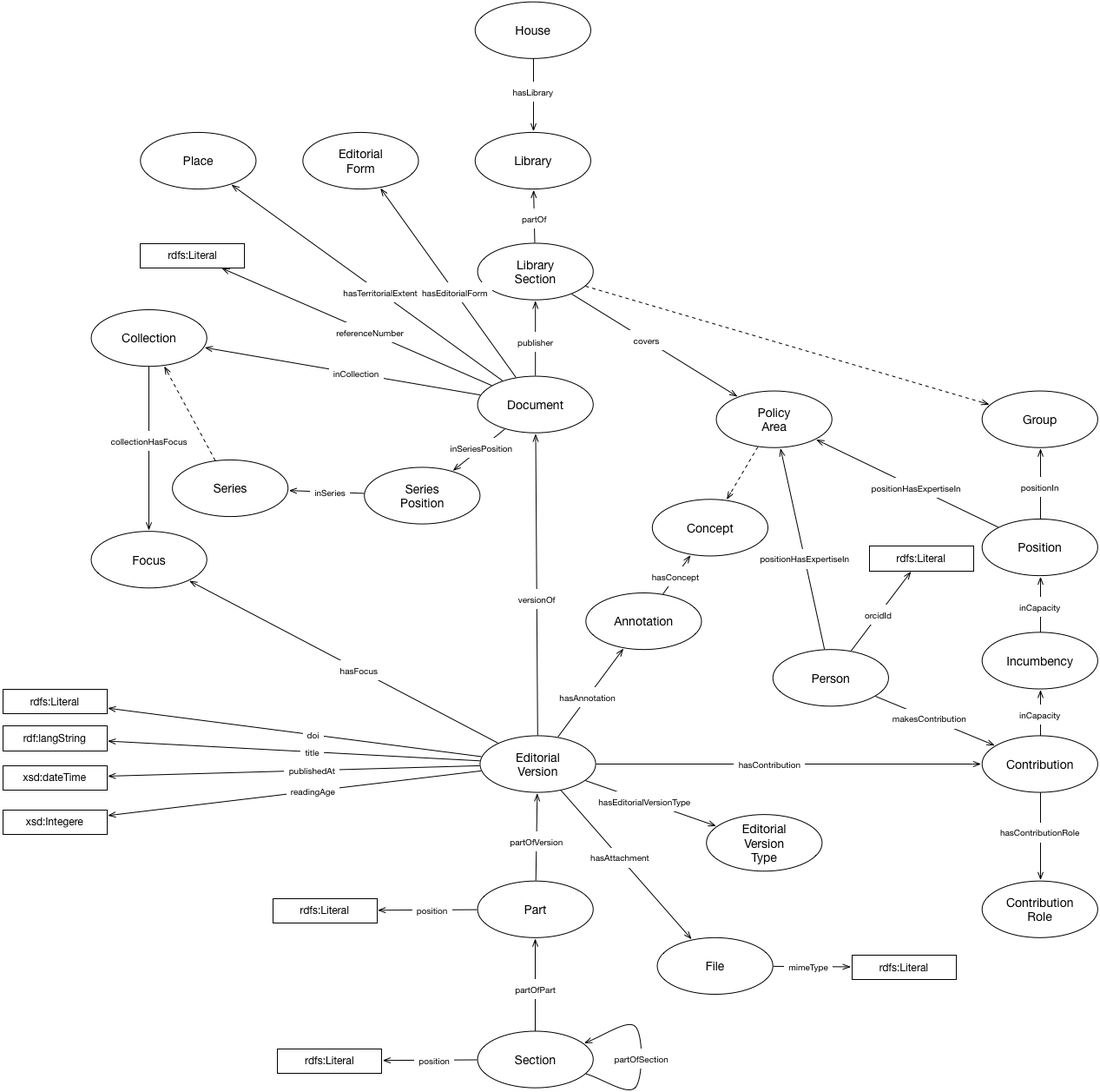
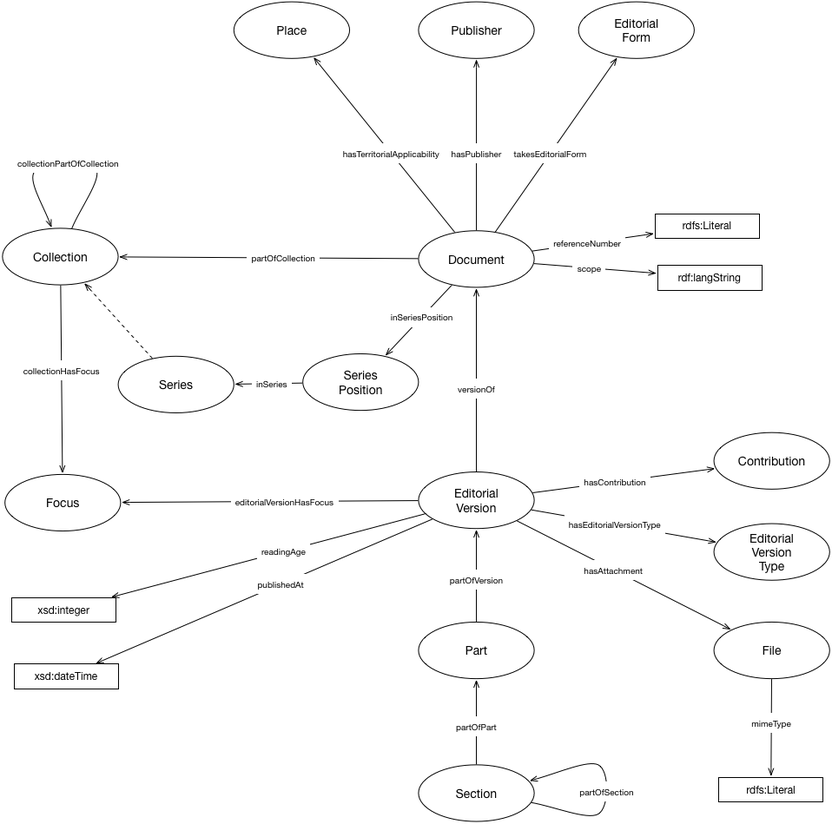
first draft

diff --git a/document/document-ontology.html b/document/document-ontology.html
@@ -1,0 +1,47 @@
+
+<?xml version="1.0" encoding="UTF-8"?><html xmlns="http://www.w3.org/1999/xhtml"><head><meta http-equiv="Content-Type" content="text/html; charset=UTF-8" /><title>Document ontology</title>
+	
+	
+	
+	
+	
+
+
+
+	
+
+		<link href="https://ukparliament.github.io/ontologies/assets/css.css" rel="stylesheet" type="text/css" />
+	</head>
+		<body>
+			<div class="head">
+				<h1>Document ontology</h1>
+				<dl>
+					<dt>IRI:</dt>
+					<dd>http://parliament.uk/ontologies/document/</dd>
+					<dt>See also:</dt>
+					<dd><a href="/ontologies/document/document-ontology.ttl">Turtle</dd>
+					<dd><a href="https://github.com/ukparliament/ontologies/tree/master/document">Github</a></dd>
+					<dd><a href="http://pdswebvowl.azurewebsites.net/#iri=https://raw.githubusercontent.com/ukparliament/ontologies/master/document/document-ontology.ttl">Visualised</a></dd>
+			</dl>
+			<div class="copyright"><span class="markdown">Open Parliament Licence v3.0</span></div>
+		</div>
+		<hr />
+		<div id="toc"><h2>Table of Content</h2><ol><li><a href="#classes">Classes</a></li><li><a href="#objectproperties">Object Properties</a></li><li><a href="#dataproperties">Data Properties</a></li><li><a href="#namespacedeclarations">Namespace Declarations</a></li></ol></div>
+
+		<p><img src="https://raw.githubusercontent.com/ukpds/ontologies/master/document/document.png" width="950" /></p>
+	
+	
+	
+	
+	
+	
+	
+	
+	
+	
+	
+	
+	
+	
+	
+	<div id="classes"><h2>Classes</h2><ul class="hlist"><li><a href="#d4e344" title="http://parliament.uk/ontologies/contribution/Collection">Collection</a></li><li><a href="#d4e356" title="http://parliament.uk/ontologies/contribution/Contribution">Contribution</a></li><li><a href="#d4e401" title="http://parliament.uk/ontologies/contribution/EditorialVersionType">Contribution</a></li><li><a href="#d4e367" title="http://parliament.uk/ontologies/contribution/Document">Document</a></li><li><a href="#d4e378" title="http://parliament.uk/ontologies/contribution/EditorialForm">EditorialForm</a></li><li><a href="#d4e390" title="http://parliament.uk/ontologies/contribution/EditorialVersion">EditorialVersion</a></li><li><a href="#d4e412" title="http://parliament.uk/ontologies/contribution/File">File</a></li><li><a href="#d4e424" title="http://parliament.uk/ontologies/contribution/Focus">Focus</a></li><li><a href="#d4e435" title="http://parliament.uk/ontologies/contribution/Part">Part</a></li><li><a href="#d4e446" title="http://parliament.uk/ontologies/contribution/Place">Place</a></li><li><a href="#d4e458" title="http://parliament.uk/ontologies/contribution/Publisher">Publisher</a></li><li><a href="#d4e469" title="http://parliament.uk/ontologies/contribution/Section">Section</a></li><li><a href="#d4e480" title="http://parliament.uk/ontologies/contribution/Series">Series</a></li><li><a href="#d4e494" title="http://parliament.uk/ontologies/contribution/SeriesPosition">SeriesPosition</a></li></ul><div id="d4e344" class="entity"><a name="http://parliament.uk/ontologies/contribution/Collection"></a><h3>Collection<sup title="class" class="type-c">c</sup><span class="backlink"> back to <a href="#toc">ToC</a> or <a href="#classes">Class ToC</a></span></h3><p><strong>IRI:</strong> http://parliament.uk/ontologies/contribution/Collection</p><div class="comment"><span class="markdown">An editorial collection of documents e.g. POSTnotes, a section of the Guide to Procedure etc.</span></div><dl class="description"><dt>has sub-classes</dt><dd><a href="#d4e480" title="http://parliament.uk/ontologies/contribution/Series">Series</a><sup title="class" class="type-c">c</sup></dd><dt>is in domain of</dt><dd><a href="#d4e38" title="http://parliament.uk/ontologies/contribution/collectionPartOfCollection">CollectionPartOfCollection</a><sup title="object property" class="type-op">op</sup>, <a href="#d4e22" title="http://parliament.uk/ontologies/contribution/collectionHasFocus">collectionHasFocus</a><sup title="object property" class="type-op">op</sup></dd><dt>is in range of</dt><dd><a href="#d4e38" title="http://parliament.uk/ontologies/contribution/collectionPartOfCollection">CollectionPartOfCollection</a><sup title="object property" class="type-op">op</sup>, <a href="#d4e176" title="http://parliament.uk/ontologies/contribution/partOfCollection">partOfCollection</a><sup title="object property" class="type-op">op</sup></dd></dl></div><div id="d4e356" class="entity"><a name="http://parliament.uk/ontologies/contribution/Contribution"></a><h3>Contribution<sup title="class" class="type-c">c</sup><span class="backlink"> back to <a href="#toc">ToC</a> or <a href="#classes">Class ToC</a></span></h3><p><strong>IRI:</strong> http://parliament.uk/ontologies/contribution/Contribution</p><div class="comment"><span class="markdown">A contribution by an agent to a document version.</span></div><dl class="description"><dt>is in range of</dt><dd><a href="#d4e84" title="http://parliament.uk/ontologies/contribution/hasContribution">hasContribution</a><sup title="object property" class="type-op">op</sup></dd></dl></div><div id="d4e401" class="entity"><a name="http://parliament.uk/ontologies/contribution/EditorialVersionType"></a><h3>Contribution<sup title="class" class="type-c">c</sup><span class="backlink"> back to <a href="#toc">ToC</a> or <a href="#classes">Class ToC</a></span></h3><p><strong>IRI:</strong> http://parliament.uk/ontologies/contribution/EditorialVersionType</p><div class="comment"><span class="markdown">The type of an editorial version. Allows us to distinguish between major and minor updates.</span></div><dl class="description"><dt>is in range of</dt><dd><a href="#d4e99" title="http://parliament.uk/ontologies/contribution/hasEditorialVersionType">hasEditorialVersionType</a><sup title="object property" class="type-op">op</sup></dd></dl></div><div id="d4e367" class="entity"><a name="http://parliament.uk/ontologies/contribution/Document"></a><h3>Document<sup title="class" class="type-c">c</sup><span class="backlink"> back to <a href="#toc">ToC</a> or <a href="#classes">Class ToC</a></span></h3><p><strong>IRI:</strong> http://parliament.uk/ontologies/contribution/Document</p><div class="comment"><span class="markdown">A document. Equivalent to a FRBR work.</span></div><dl class="description"><dt>is in domain of</dt><dd><a href="#d4e114" title="http://parliament.uk/ontologies/contribution/hasPublisher">hasPublisher</a><sup title="object property" class="type-op">op</sup>, <a href="#d4e130" title="http://parliament.uk/ontologies/contribution/hasTerritorialApplicability">hasTerritorialApplicability</a><sup title="object property" class="type-op">op</sup>, <a href="#d4e160" title="http://parliament.uk/ontologies/contribution/inSeriesPosition">inSeriesPosition</a><sup title="object property" class="type-op">op</sup>, <a href="#d4e176" title="http://parliament.uk/ontologies/contribution/partOfCollection">partOfCollection</a><sup title="object property" class="type-op">op</sup>, <a href="#d4e314" title="http://parliament.uk/ontologies/contribution/referenceNumber">referenceNumber</a><sup title="data property" class="type-dp">dp</sup>, <a href="#d4e222" title="http://parliament.uk/ontologies/contribution/scope">scope</a><sup title="object property" class="type-op">op</sup>, <a href="#d4e235" title="http://parliament.uk/ontologies/contribution/takesEditorialForm">takesEditorialForm</a><sup title="object property" class="type-op">op</sup></dd><dt>is in range of</dt><dd><a href="#d4e250" title="http://parliament.uk/ontologies/contribution/versionOf">versionOf</a><sup title="object property" class="type-op">op</sup></dd></dl></div><div id="d4e378" class="entity"><a name="http://parliament.uk/ontologies/contribution/EditorialForm"></a><h3>EditorialForm<sup title="class" class="type-c">c</sup><span class="backlink"> back to <a href="#toc">ToC</a> or <a href="#classes">Class ToC</a></span></h3><p><strong>IRI:</strong> http://parliament.uk/ontologies/contribution/EditorialForm</p><div class="comment"><span class="markdown">The editorial form of a document e.g. a report, an article, a transcript, meeting minutes etc.</span></div><dl class="description"><dt>is in range of</dt><dd><a href="#d4e235" title="http://parliament.uk/ontologies/contribution/takesEditorialForm">takesEditorialForm</a><sup title="object property" class="type-op">op</sup></dd></dl></div><div id="d4e390" class="entity"><a name="http://parliament.uk/ontologies/contribution/EditorialVersion"></a><h3>EditorialVersion<sup title="class" class="type-c">c</sup><span class="backlink"> back to <a href="#toc">ToC</a> or <a href="#classes">Class ToC</a></span></h3><p><strong>IRI:</strong> http://parliament.uk/ontologies/contribution/EditorialVersion</p><div class="comment"><span class="markdown">An editorial version of a document. Allows for multiple versions of a document over time.</span></div><dl class="description"><dt>is in domain of</dt><dd><a href="#d4e53" title="http://parliament.uk/ontologies/contribution/editorialVersionHasFocus">editorialVersionHasFocus</a><sup title="object property" class="type-op">op</sup>, <a href="#d4e68" title="http://parliament.uk/ontologies/contribution/hasAttachment">hasAttachment</a><sup title="object property" class="type-op">op</sup>, <a href="#d4e84" title="http://parliament.uk/ontologies/contribution/hasContribution">hasContribution</a><sup title="object property" class="type-op">op</sup>, <a href="#d4e99" title="http://parliament.uk/ontologies/contribution/hasEditorialVersionType">hasEditorialVersionType</a><sup title="object property" class="type-op">op</sup>, <a href="#d4e283" title="http://parliament.uk/ontologies/contribution/publishedAt">publishedAt</a><sup title="data property" class="type-dp">dp</sup>, <a href="#d4e298" title="http://parliament.uk/ontologies/contribution/readingAge">readingAge</a><sup title="data property" class="type-dp">dp</sup>, <a href="#d4e250" title="http://parliament.uk/ontologies/contribution/versionOf">versionOf</a><sup title="object property" class="type-op">op</sup></dd><dt>is in range of</dt><dd><a href="#d4e206" title="http://parliament.uk/ontologies/contribution/partOfVersion">partOfVersion</a><sup title="object property" class="type-op">op</sup></dd></dl></div><div id="d4e412" class="entity"><a name="http://parliament.uk/ontologies/contribution/File"></a><h3>File<sup title="class" class="type-c">c</sup><span class="backlink"> back to <a href="#toc">ToC</a> or <a href="#classes">Class ToC</a></span></h3><p><strong>IRI:</strong> http://parliament.uk/ontologies/contribution/File</p><div class="comment"><span class="markdown">A file associated with an editorial version. Usually a spreadsheet, occasionally a PDF or Word document.</span></div><dl class="description"><dt>is in domain of</dt><dd><a href="#d4e268" title="http://parliament.uk/ontologies/contribution/mimeType">mimeType</a><sup title="data property" class="type-dp">dp</sup></dd><dt>is in range of</dt><dd><a href="#d4e68" title="http://parliament.uk/ontologies/contribution/hasAttachment">hasAttachment</a><sup title="object property" class="type-op">op</sup></dd></dl></div><div id="d4e424" class="entity"><a name="http://parliament.uk/ontologies/contribution/Focus"></a><h3>Focus<sup title="class" class="type-c">c</sup><span class="backlink"> back to <a href="#toc">ToC</a> or <a href="#classes">Class ToC</a></span></h3><p><strong>IRI:</strong> http://parliament.uk/ontologies/contribution/Focus</p><div class="comment"><span class="markdown">A focus area for a document or collection of documents. Allows us to point at any modelled thing as a focus area e.g. a committee, a bill.</span></div><dl class="description"><dt>is in range of</dt><dd><a href="#d4e22" title="http://parliament.uk/ontologies/contribution/collectionHasFocus">collectionHasFocus</a><sup title="object property" class="type-op">op</sup>, <a href="#d4e53" title="http://parliament.uk/ontologies/contribution/editorialVersionHasFocus">editorialVersionHasFocus</a><sup title="object property" class="type-op">op</sup></dd></dl></div><div id="d4e435" class="entity"><a name="http://parliament.uk/ontologies/contribution/Part"></a><h3>Part<sup title="class" class="type-c">c</sup><span class="backlink"> back to <a href="#toc">ToC</a> or <a href="#classes">Class ToC</a></span></h3><p><strong>IRI:</strong> http://parliament.uk/ontologies/contribution/Part</p><div class="comment"><span class="markdown">A part of an editorial version of a document e.g. abstract, main contents, appendices etc.</span></div><dl class="description"><dt>is in domain of</dt><dd><a href="#d4e191" title="http://parliament.uk/ontologies/contribution/partOfPart">partOfPart</a><sup title="object property" class="type-op">op</sup>, <a href="#d4e206" title="http://parliament.uk/ontologies/contribution/partOfVersion">partOfVersion</a><sup title="object property" class="type-op">op</sup></dd><dt>is in range of</dt><dd><a href="#d4e191" title="http://parliament.uk/ontologies/contribution/partOfPart">partOfPart</a><sup title="object property" class="type-op">op</sup></dd></dl></div><div id="d4e446" class="entity"><a name="http://parliament.uk/ontologies/contribution/Place"></a><h3>Place<sup title="class" class="type-c">c</sup><span class="backlink"> back to <a href="#toc">ToC</a> or <a href="#classes">Class ToC</a></span></h3><p><strong>IRI:</strong> http://parliament.uk/ontologies/contribution/Place</p><div class="comment"><span class="markdown">A place. For the purposes of this model this includes England, Scotland, Wales or Northern Ireland.</span></div><dl class="description"><dt>is in range of</dt><dd><a href="#d4e130" title="http://parliament.uk/ontologies/contribution/hasTerritorialApplicability">hasTerritorialApplicability</a><sup title="object property" class="type-op">op</sup></dd></dl></div><div id="d4e458" class="entity"><a name="http://parliament.uk/ontologies/contribution/Publisher"></a><h3>Publisher<sup title="class" class="type-c">c</sup><span class="backlink"> back to <a href="#toc">ToC</a> or <a href="#classes">Class ToC</a></span></h3><p><strong>IRI:</strong> http://parliament.uk/ontologies/contribution/Publisher</p><div class="comment"><span class="markdown">An agent responsible for the publishing of material.</span></div><dl class="description"><dt>is in range of</dt><dd><a href="#d4e114" title="http://parliament.uk/ontologies/contribution/hasPublisher">hasPublisher</a><sup title="object property" class="type-op">op</sup></dd></dl></div><div id="d4e469" class="entity"><a name="http://parliament.uk/ontologies/contribution/Section"></a><h3>Section<sup title="class" class="type-c">c</sup><span class="backlink"> back to <a href="#toc">ToC</a> or <a href="#classes">Class ToC</a></span></h3><p><strong>IRI:</strong> http://parliament.uk/ontologies/contribution/Section</p><div class="comment"><span class="markdown">A section within a part within an editorial version of a document. Allows for chapter and sections and subsections.</span></div></div><div id="d4e480" class="entity"><a name="http://parliament.uk/ontologies/contribution/Series"></a><h3>Series<sup title="class" class="type-c">c</sup><span class="backlink"> back to <a href="#toc">ToC</a> or <a href="#classes">Class ToC</a></span></h3><p><strong>IRI:</strong> http://parliament.uk/ontologies/contribution/Series</p><div class="comment"><span class="markdown">A specialised form of collection allowing for documents to be given an editorial ordering.</span></div><dl class="description"><dt>has super-classes</dt><dd><a href="#d4e344" title="http://parliament.uk/ontologies/contribution/Collection">Collection</a><sup title="class" class="type-c">c</sup></dd><dt>is in range of</dt><dd><a href="#d4e145" title="http://parliament.uk/ontologies/contribution/inSeries">inSeries</a><sup title="object property" class="type-op">op</sup></dd></dl></div><div id="d4e494" class="entity"><a name="http://parliament.uk/ontologies/contribution/SeriesPosition"></a><h3>SeriesPosition<sup title="class" class="type-c">c</sup><span class="backlink"> back to <a href="#toc">ToC</a> or <a href="#classes">Class ToC</a></span></h3><p><strong>IRI:</strong> http://parliament.uk/ontologies/contribution/SeriesPosition</p><div class="comment"><span class="markdown">Allows a document to be editorially positioned within a series.</span></div><dl class="description"><dt>is in domain of</dt><dd><a href="#d4e145" title="http://parliament.uk/ontologies/contribution/inSeries">inSeries</a><sup title="object property" class="type-op">op</sup></dd><dt>is in range of</dt><dd><a href="#d4e160" title="http://parliament.uk/ontologies/contribution/inSeriesPosition">inSeriesPosition</a><sup title="object property" class="type-op">op</sup></dd></dl></div></div><div id="objectproperties"><h2>Object Properties</h2><ul class="hlist"><li><a href="#d4e22" title="http://parliament.uk/ontologies/contribution/collectionHasFocus">collectionHasFocus</a></li><li><a href="#d4e38" title="http://parliament.uk/ontologies/contribution/collectionPartOfCollection">CollectionPartOfCollection</a></li><li><a href="#d4e53" title="http://parliament.uk/ontologies/contribution/editorialVersionHasFocus">editorialVersionHasFocus</a></li><li><a href="#d4e68" title="http://parliament.uk/ontologies/contribution/hasAttachment">hasAttachment</a></li><li><a href="#d4e84" title="http://parliament.uk/ontologies/contribution/hasContribution">hasContribution</a></li><li><a href="#d4e99" title="http://parliament.uk/ontologies/contribution/hasEditorialVersionType">hasEditorialVersionType</a></li><li><a href="#d4e114" title="http://parliament.uk/ontologies/contribution/hasPublisher">hasPublisher</a></li><li><a href="#d4e130" title="http://parliament.uk/ontologies/contribution/hasTerritorialApplicability">hasTerritorialApplicability</a></li><li><a href="#d4e145" title="http://parliament.uk/ontologies/contribution/inSeries">inSeries</a></li><li><a href="#d4e160" title="http://parliament.uk/ontologies/contribution/inSeriesPosition">inSeriesPosition</a></li><li><a href="#d4e176" title="http://parliament.uk/ontologies/contribution/partOfCollection">partOfCollection</a></li><li><a href="#d4e191" title="http://parliament.uk/ontologies/contribution/partOfPart">partOfPart</a></li><li><a href="#d4e206" title="http://parliament.uk/ontologies/contribution/partOfVersion">partOfVersion</a></li><li><a href="#d4e222" title="http://parliament.uk/ontologies/contribution/scope">scope</a></li><li><a href="#d4e235" title="http://parliament.uk/ontologies/contribution/takesEditorialForm">takesEditorialForm</a></li><li><a href="#d4e250" title="http://parliament.uk/ontologies/contribution/versionOf">versionOf</a></li></ul><div id="d4e22" class="entity"><a name="http://parliament.uk/ontologies/contribution/collectionHasFocus"></a><h3>collectionHasFocus<sup title="object property" class="type-op">op</sup><span class="backlink"> back to <a href="#toc">ToC</a> or <a href="#objectproperties">Object Property ToC</a></span></h3><p><strong>IRI:</strong> http://parliament.uk/ontologies/contribution/collectionHasFocus</p><div class="comment"><span class="markdown">Relates a collection to its focus area.</span></div><div class="description"><dl><dt>has domain</dt><dd><a href="#d4e344" title="http://parliament.uk/ontologies/contribution/Collection">Collection</a><sup title="class" class="type-c">c</sup></dd><dt>has range</dt><dd><a href="#d4e424" title="http://parliament.uk/ontologies/contribution/Focus">Focus</a><sup title="class" class="type-c">c</sup></dd></dl></div></div><div id="d4e38" class="entity"><a name="http://parliament.uk/ontologies/contribution/collectionPartOfCollection"></a><h3>CollectionPartOfCollection<sup title="object property" class="type-op">op</sup><span class="backlink"> back to <a href="#toc">ToC</a> or <a href="#objectproperties">Object Property ToC</a></span></h3><p><strong>IRI:</strong> http://parliament.uk/ontologies/contribution/collectionPartOfCollection</p><div class="comment"><span class="markdown">Relates a collection to a wider collection it forms part of.</span></div><div class="description"><dl><dt>has domain</dt><dd><a href="#d4e344" title="http://parliament.uk/ontologies/contribution/Collection">Collection</a><sup title="class" class="type-c">c</sup></dd><dt>has range</dt><dd><a href="#d4e344" title="http://parliament.uk/ontologies/contribution/Collection">Collection</a><sup title="class" class="type-c">c</sup></dd></dl></div></div><div id="d4e53" class="entity"><a name="http://parliament.uk/ontologies/contribution/editorialVersionHasFocus"></a><h3>editorialVersionHasFocus<sup title="object property" class="type-op">op</sup><span class="backlink"> back to <a href="#toc">ToC</a> or <a href="#objectproperties">Object Property ToC</a></span></h3><p><strong>IRI:</strong> http://parliament.uk/ontologies/contribution/editorialVersionHasFocus</p><div class="comment"><span class="markdown">Relates an editorial version to its focus area.</span></div><div class="description"><dl><dt>has domain</dt><dd><a href="#d4e390" title="http://parliament.uk/ontologies/contribution/EditorialVersion">EditorialVersion</a><sup title="class" class="type-c">c</sup></dd><dt>has range</dt><dd><a href="#d4e424" title="http://parliament.uk/ontologies/contribution/Focus">Focus</a><sup title="class" class="type-c">c</sup></dd></dl></div></div><div id="d4e68" class="entity"><a name="http://parliament.uk/ontologies/contribution/hasAttachment"></a><h3>hasAttachment<sup title="object property" class="type-op">op</sup><span class="backlink"> back to <a href="#toc">ToC</a> or <a href="#objectproperties">Object Property ToC</a></span></h3><p><strong>IRI:</strong> http://parliament.uk/ontologies/contribution/hasAttachment</p><div class="comment"><span class="markdown">Relates an editorial version to a file attachment.</span></div><div class="description"><dl><dt>has domain</dt><dd><a href="#d4e390" title="http://parliament.uk/ontologies/contribution/EditorialVersion">EditorialVersion</a><sup title="class" class="type-c">c</sup></dd><dt>has range</dt><dd><a href="#d4e412" title="http://parliament.uk/ontologies/contribution/File">File</a><sup title="class" class="type-c">c</sup></dd></dl></div></div><div id="d4e84" class="entity"><a name="http://parliament.uk/ontologies/contribution/hasContribution"></a><h3>hasContribution<sup title="object property" class="type-op">op</sup><span class="backlink"> back to <a href="#toc">ToC</a> or <a href="#objectproperties">Object Property ToC</a></span></h3><p><strong>IRI:</strong> http://parliament.uk/ontologies/contribution/hasContribution</p><div class="comment"><span class="markdown">Relates an editorial version to a contribution.</span></div><div class="description"><dl><dt>has domain</dt><dd><a href="#d4e390" title="http://parliament.uk/ontologies/contribution/EditorialVersion">EditorialVersion</a><sup title="class" class="type-c">c</sup></dd><dt>has range</dt><dd><a href="#d4e356" title="http://parliament.uk/ontologies/contribution/Contribution">Contribution</a><sup title="class" class="type-c">c</sup></dd></dl></div></div><div id="d4e99" class="entity"><a name="http://parliament.uk/ontologies/contribution/hasEditorialVersionType"></a><h3>hasEditorialVersionType<sup title="object property" class="type-op">op</sup><span class="backlink"> back to <a href="#toc">ToC</a> or <a href="#objectproperties">Object Property ToC</a></span></h3><p><strong>IRI:</strong> http://parliament.uk/ontologies/contribution/hasEditorialVersionType</p><div class="comment"><span class="markdown">Relates an editorial version to its type.</span></div><div class="description"><dl><dt>has domain</dt><dd><a href="#d4e390" title="http://parliament.uk/ontologies/contribution/EditorialVersion">EditorialVersion</a><sup title="class" class="type-c">c</sup></dd><dt>has range</dt><dd><a href="#d4e401" title="http://parliament.uk/ontologies/contribution/EditorialVersionType">Contribution</a><sup title="class" class="type-c">c</sup></dd></dl></div></div><div id="d4e114" class="entity"><a name="http://parliament.uk/ontologies/contribution/hasPublisher"></a><h3>hasPublisher<sup title="object property" class="type-op">op</sup><span class="backlink"> back to <a href="#toc">ToC</a> or <a href="#objectproperties">Object Property ToC</a></span></h3><p><strong>IRI:</strong> http://parliament.uk/ontologies/contribution/hasPublisher</p><div class="comment"><span class="markdown">Relates a document to a publisher or publishers.</span></div><div class="description"><dl><dt>has domain</dt><dd><a href="#d4e367" title="http://parliament.uk/ontologies/contribution/Document">Document</a><sup title="class" class="type-c">c</sup></dd><dt>has range</dt><dd><a href="#d4e458" title="http://parliament.uk/ontologies/contribution/Publisher">Publisher</a><sup title="class" class="type-c">c</sup></dd></dl></div></div><div id="d4e130" class="entity"><a name="http://parliament.uk/ontologies/contribution/hasTerritorialApplicability"></a><h3>hasTerritorialApplicability<sup title="object property" class="type-op">op</sup><span class="backlink"> back to <a href="#toc">ToC</a> or <a href="#objectproperties">Object Property ToC</a></span></h3><p><strong>IRI:</strong> http://parliament.uk/ontologies/contribution/hasTerritorialApplicability</p><div class="comment"><span class="markdown">Relates a document to any territory its contents are applicable in.</span></div><div class="description"><dl><dt>has domain</dt><dd><a href="#d4e367" title="http://parliament.uk/ontologies/contribution/Document">Document</a><sup title="class" class="type-c">c</sup></dd><dt>has range</dt><dd><a href="#d4e446" title="http://parliament.uk/ontologies/contribution/Place">Place</a><sup title="class" class="type-c">c</sup></dd></dl></div></div><div id="d4e145" class="entity"><a name="http://parliament.uk/ontologies/contribution/inSeries"></a><h3>inSeries<sup title="object property" class="type-op">op</sup><span class="backlink"> back to <a href="#toc">ToC</a> or <a href="#objectproperties">Object Property ToC</a></span></h3><p><strong>IRI:</strong> http://parliament.uk/ontologies/contribution/inSeries</p><div class="comment"><span class="markdown">Relates a series position to the series its part of.</span></div><div class="description"><dl><dt>has domain</dt><dd><a href="#d4e494" title="http://parliament.uk/ontologies/contribution/SeriesPosition">SeriesPosition</a><sup title="class" class="type-c">c</sup></dd><dt>has range</dt><dd><a href="#d4e480" title="http://parliament.uk/ontologies/contribution/Series">Series</a><sup title="class" class="type-c">c</sup></dd></dl></div></div><div id="d4e160" class="entity"><a name="http://parliament.uk/ontologies/contribution/inSeriesPosition"></a><h3>inSeriesPosition<sup title="object property" class="type-op">op</sup><span class="backlink"> back to <a href="#toc">ToC</a> or <a href="#objectproperties">Object Property ToC</a></span></h3><p><strong>IRI:</strong> http://parliament.uk/ontologies/contribution/inSeriesPosition</p><div class="comment"><span class="markdown">Relates a document to its position in an ordered series.</span></div><div class="description"><dl><dt>has domain</dt><dd><a href="#d4e367" title="http://parliament.uk/ontologies/contribution/Document">Document</a><sup title="class" class="type-c">c</sup></dd><dt>has range</dt><dd><a href="#d4e494" title="http://parliament.uk/ontologies/contribution/SeriesPosition">SeriesPosition</a><sup title="class" class="type-c">c</sup></dd></dl></div></div><div id="d4e176" class="entity"><a name="http://parliament.uk/ontologies/contribution/partOfCollection"></a><h3>partOfCollection<sup title="object property" class="type-op">op</sup><span class="backlink"> back to <a href="#toc">ToC</a> or <a href="#objectproperties">Object Property ToC</a></span></h3><p><strong>IRI:</strong> http://parliament.uk/ontologies/contribution/partOfCollection</p><div class="comment"><span class="markdown">Relates a document to a collection of which it is part.</span></div><div class="description"><dl><dt>has domain</dt><dd><a href="#d4e367" title="http://parliament.uk/ontologies/contribution/Document">Document</a><sup title="class" class="type-c">c</sup></dd><dt>has range</dt><dd><a href="#d4e344" title="http://parliament.uk/ontologies/contribution/Collection">Collection</a><sup title="class" class="type-c">c</sup></dd></dl></div></div><div id="d4e191" class="entity"><a name="http://parliament.uk/ontologies/contribution/partOfPart"></a><h3>partOfPart<sup title="object property" class="type-op">op</sup><span class="backlink"> back to <a href="#toc">ToC</a> or <a href="#objectproperties">Object Property ToC</a></span></h3><p><strong>IRI:</strong> http://parliament.uk/ontologies/contribution/partOfPart</p><div class="comment"><span class="markdown">Relates a part to its part part.</span></div><div class="description"><dl><dt>has domain</dt><dd><a href="#d4e435" title="http://parliament.uk/ontologies/contribution/Part">Part</a><sup title="class" class="type-c">c</sup></dd><dt>has range</dt><dd><a href="#d4e435" title="http://parliament.uk/ontologies/contribution/Part">Part</a><sup title="class" class="type-c">c</sup></dd></dl></div></div><div id="d4e206" class="entity"><a name="http://parliament.uk/ontologies/contribution/partOfVersion"></a><h3>partOfVersion<sup title="object property" class="type-op">op</sup><span class="backlink"> back to <a href="#toc">ToC</a> or <a href="#objectproperties">Object Property ToC</a></span></h3><p><strong>IRI:</strong> http://parliament.uk/ontologies/contribution/partOfVersion</p><div class="comment"><span class="markdown">Relates a part to the editorial version its part of.</span></div><div class="description"><dl><dt>has domain</dt><dd><a href="#d4e435" title="http://parliament.uk/ontologies/contribution/Part">Part</a><sup title="class" class="type-c">c</sup></dd><dt>has range</dt><dd><a href="#d4e390" title="http://parliament.uk/ontologies/contribution/EditorialVersion">EditorialVersion</a><sup title="class" class="type-c">c</sup></dd></dl></div></div><div id="d4e222" class="entity"><a name="http://parliament.uk/ontologies/contribution/scope"></a><h3>scope<sup title="object property" class="type-op">op</sup><span class="backlink"> back to <a href="#toc">ToC</a> or <a href="#objectproperties">Object Property ToC</a></span></h3><p><strong>IRI:</strong> http://parliament.uk/ontologies/contribution/scope</p><div class="comment"><span class="markdown">The scope of a POST briefing. POST write and publish scope notes for research areas before writing the briefing.</span></div><div class="description"><dl><dt>has range</dt><dd><span class="dotted" title="http://www.w3.org/1999/02/22-rdf-syntax-ns#langString">lang string</span><sup title="class" class="type-c">c</sup></dd><dt>is also defined as</dt><dd><a href="#d4e329">data property</a></dd></dl></div></div><div id="d4e235" class="entity"><a name="http://parliament.uk/ontologies/contribution/takesEditorialForm"></a><h3>takesEditorialForm<sup title="object property" class="type-op">op</sup><span class="backlink"> back to <a href="#toc">ToC</a> or <a href="#objectproperties">Object Property ToC</a></span></h3><p><strong>IRI:</strong> http://parliament.uk/ontologies/contribution/takesEditorialForm</p><div class="comment"><span class="markdown">Relates a document to its editorial form.</span></div><div class="description"><dl><dt>has domain</dt><dd><a href="#d4e367" title="http://parliament.uk/ontologies/contribution/Document">Document</a><sup title="class" class="type-c">c</sup></dd><dt>has range</dt><dd><a href="#d4e378" title="http://parliament.uk/ontologies/contribution/EditorialForm">EditorialForm</a><sup title="class" class="type-c">c</sup></dd></dl></div></div><div id="d4e250" class="entity"><a name="http://parliament.uk/ontologies/contribution/versionOf"></a><h3>versionOf<sup title="object property" class="type-op">op</sup><span class="backlink"> back to <a href="#toc">ToC</a> or <a href="#objectproperties">Object Property ToC</a></span></h3><p><strong>IRI:</strong> http://parliament.uk/ontologies/contribution/versionOf</p><div class="comment"><span class="markdown">Relates an editorial version to its work level document.</span></div><div class="description"><dl><dt>has domain</dt><dd><a href="#d4e390" title="http://parliament.uk/ontologies/contribution/EditorialVersion">EditorialVersion</a><sup title="class" class="type-c">c</sup></dd><dt>has range</dt><dd><a href="#d4e367" title="http://parliament.uk/ontologies/contribution/Document">Document</a><sup title="class" class="type-c">c</sup></dd></dl></div></div></div><div id="dataproperties"><h2>Data Properties</h2><ul class="hlist"><li><a href="#d4e268" title="http://parliament.uk/ontologies/contribution/mimeType">mimeType</a></li><li><a href="#d4e283" title="http://parliament.uk/ontologies/contribution/publishedAt">publishedAt</a></li><li><a href="#d4e298" title="http://parliament.uk/ontologies/contribution/readingAge">readingAge</a></li><li><a href="#d4e314" title="http://parliament.uk/ontologies/contribution/referenceNumber">referenceNumber</a></li><li><a href="#d4e329" title="http://parliament.uk/ontologies/contribution/scope">scope</a></li></ul><div id="d4e268" class="entity"><a name="http://parliament.uk/ontologies/contribution/mimeType"></a><h3>mimeType<sup title="data property" class="type-dp">dp</sup><span class="backlink"> back to <a href="#toc">ToC</a> or <a href="#dataproperties">Data Property ToC</a></span></h3><p><strong>IRI:</strong> http://parliament.uk/ontologies/contribution/mimeType</p><div class="comment"><span class="markdown">The mime type of a file.</span></div><div class="description"><dl><dt>has domain</dt><dd><a href="#d4e412" title="http://parliament.uk/ontologies/contribution/File">File</a><sup title="class" class="type-c">c</sup></dd><dt>has range</dt><dd><span class="dotted" title="http://www.w3.org/2000/01/rdf-schema#Literal">literal</span></dd></dl></div></div><div id="d4e283" class="entity"><a name="http://parliament.uk/ontologies/contribution/publishedAt"></a><h3>publishedAt<sup title="data property" class="type-dp">dp</sup><span class="backlink"> back to <a href="#toc">ToC</a> or <a href="#dataproperties">Data Property ToC</a></span></h3><p><strong>IRI:</strong> http://parliament.uk/ontologies/contribution/publishedAt</p><div class="comment"><span class="markdown">The date time of publishing of an editorial version of a document.</span></div><div class="description"><dl><dt>has domain</dt><dd><a href="#d4e390" title="http://parliament.uk/ontologies/contribution/EditorialVersion">EditorialVersion</a><sup title="class" class="type-c">c</sup></dd><dt>has range</dt><dd><span class="dotted" title="http://www.w3.org/2001/XMLSchema#dateTime">date time</span></dd></dl></div></div><div id="d4e298" class="entity"><a name="http://parliament.uk/ontologies/contribution/readingAge"></a><h3>readingAge<sup title="data property" class="type-dp">dp</sup><span class="backlink"> back to <a href="#toc">ToC</a> or <a href="#dataproperties">Data Property ToC</a></span></h3><p><strong>IRI:</strong> http://parliament.uk/ontologies/contribution/readingAge</p><div class="comment"><span class="markdown">The minimum reading age for an editorial version of a document.</span></div><div class="description"><dl><dt>has domain</dt><dd><a href="#d4e390" title="http://parliament.uk/ontologies/contribution/EditorialVersion">EditorialVersion</a><sup title="class" class="type-c">c</sup></dd><dt>has range</dt><dd><span class="dotted" title="http://www.w3.org/2001/XMLSchema#integer">integer</span></dd></dl></div></div><div id="d4e314" class="entity"><a name="http://parliament.uk/ontologies/contribution/referenceNumber"></a><h3>referenceNumber<sup title="data property" class="type-dp">dp</sup><span class="backlink"> back to <a href="#toc">ToC</a> or <a href="#dataproperties">Data Property ToC</a></span></h3><p><strong>IRI:</strong> http://parliament.uk/ontologies/contribution/referenceNumber</p><div class="comment"><span class="markdown">The reference number of a document.</span></div><div class="description"><dl><dt>has domain</dt><dd><a href="#d4e367" title="http://parliament.uk/ontologies/contribution/Document">Document</a><sup title="class" class="type-c">c</sup></dd><dt>has range</dt><dd><span class="dotted" title="http://www.w3.org/2000/01/rdf-schema#Literal">literal</span></dd></dl></div></div><div id="d4e329" class="entity"><a name="http://parliament.uk/ontologies/contribution/scope"></a><h3>scope<sup title="object property" class="type-op">op</sup><span class="backlink"> back to <a href="#toc">ToC</a> or <a href="#dataproperties">Data Property ToC</a></span></h3><p><strong>IRI:</strong> http://parliament.uk/ontologies/contribution/scope</p><div class="comment"><span class="markdown">The scope of a POST briefing. POST write and publish scope notes for research areas before writing the briefing.</span></div><div class="description"><dl><dt>has domain</dt><dd><a href="#d4e367" title="http://parliament.uk/ontologies/contribution/Document">Document</a><sup title="class" class="type-c">c</sup></dd><dt>is also defined as</dt><dd><a href="#d4e222">object property</a></dd></dl></div></div></div><div id="namespacedeclarations"><h2>Namespace Declarations <span class="backlink"> back to <a href="#toc">ToC</a></span></h2><dl><dt><em>default namespace</em></dt><dd>http://parliament.uk/ontologies/document/</dd><dt>contribution</dt><dd>http://parliament.uk/ontologies/contribution/</dd><dt>owl</dt><dd>http://www.w3.org/2002/07/owl#</dd><dt>rdf</dt><dd>http://www.w3.org/1999/02/22-rdf-syntax-ns#</dd><dt>rdfs</dt><dd>http://www.w3.org/2000/01/rdf-schema#</dd><dt>terms</dt><dd>http://purl.org/dc/terms/</dd><dt>xsd</dt><dd>http://www.w3.org/2001/XMLSchema#</dd></dl></div><p class="endnote">This HTML document was obtained by processing the OWL ontology source code through <a href="http://www.essepuntato.it/lode">LODE</a>, <em>Live OWL Documentation Environment</em>, developed by <a href="http://www.essepuntato.it">Silvio Peroni</a>.</p></body></html>
